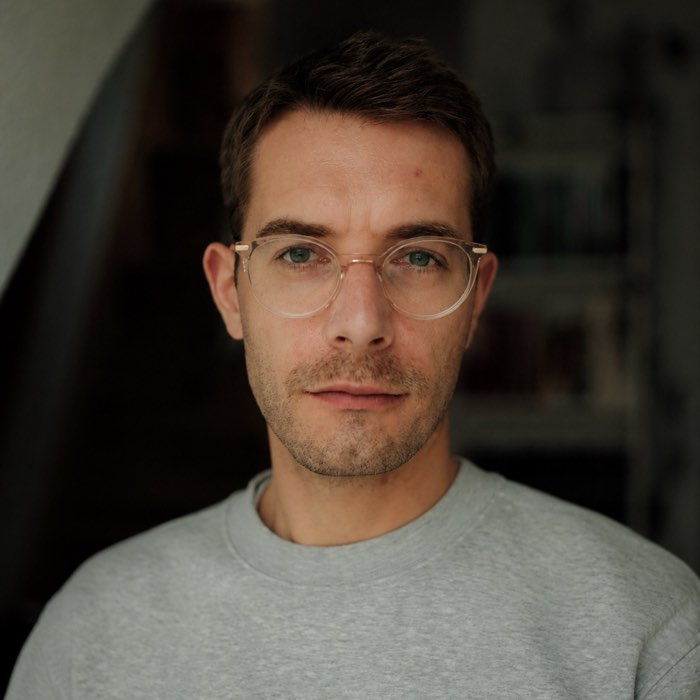
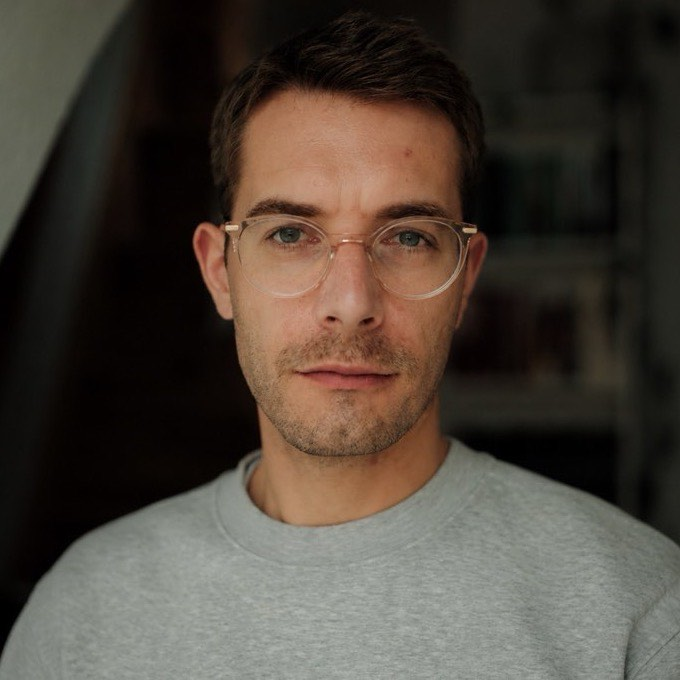
Team-Portraets auf eine gemeinsame Augenlinie geschnitten
Beim Wechsel von einem Portraet zum naechsten sprang der Blick auf und
ab. Gemessen lagen die Augen zwischen 22 und 37 Prozent der Kachelhoehe,
bei 304px Anzeige also rund 45px auseinander.

Jetzt liegen alle vier auf 35 Prozent.

Der Wert ist nicht gewaehlt, sondern die untere Grenze. Er ergibt sich
aus Joscha: zwischen Haaransatz und Augen liegen bei ihm 220px, ueber dem
Haaransatz nur 38. Tiefer angesetzt schneidet ihm den Kopf ab — was ein
erster Anlauf mit 26 Prozent auch getan hat. Hoeher angesetzt macht die
beiden sitzenden Aufnahmen unnoetig eng.

  Datei                  Kachel   Luft ueber dem Haaransatz
  philipp-maxhofer.jpg   700      81 px
  joscha-ortmeier.jpg    680      18 px
  tom-beckers.jpg        440      42 px
  cem-schuch.jpg         437      82 px

Die Kacheln sind verschieden gross, weil Cem und Tom auf ihren Aufnahmen
weit im Raum sitzen und ueber den Augen wenig Rand haben: Um sie auf
dieselbe Augenhoehe zu bringen, muss enger beschnitten werden.
Dargestellt werden alle mit 304px, also mindestens 1,4-fach.

Gemessen wurde nicht geschaetzt: Augen- und Haaransatzhoehen ueber
schmale Streifen aus jeder Datei bestimmt, danach der gemeinsame Wert
ausgerechnet und die fertigen Schnitte noch einmal mit Streifen bei
35 Prozent gegengeprueft.

Regel steht in docs/bildmaterial.md und im Kommentar ueber dem
team-Array: Wer ein Portraet tauscht, muss den Schnitt mitliefern.

diff --git a/docs/bildmaterial.md b/docs/bildmaterial.md
@@ -194,6 +194,36 @@ im Stapel trägt am meisten, das oberste nichts.
 Kamera, die Datei ist mit 570 × 760 als einzige unter 1000px breit, und
 inhaltlich zeigt sie dasselbe wie `bts-07` und `bts-09` — nur ohne Gesichter.
 
+### Die Team-Porträts
+
+Alle vier Quadrate sind so geschnitten, dass **die Augen auf 35 Prozent der
+Höhe** liegen. Vorher lagen sie zwischen 22 und 37 Prozent — beim Blick von
+einem Porträt zum nächsten sprang der Blick um rund 45px auf und ab.
+
+Die 35 Prozent sind die untere Grenze, nicht ein gewählter Wert. Sie ergeben
+sich aus Joscha: zwischen Haaransatz und Augen liegen bei ihm 220px, über dem
+Haaransatz nur 38. Tiefer angesetzt hätte ihm den Kopf abgeschnitten, höher
+die beiden sitzenden Aufnahmen unnötig eng gemacht.
+
+| Datei | Kachel | Augen | über dem Haaransatz |
+|---|---|---|---|
+| `philipp-maxhofer.jpg` | 700 × 700 | 35 % | 81 px |
+| `joscha-ortmeier.jpg` | 680 × 680 | 35 % | 18 px |
+| `tom-beckers.jpg` | 440 × 440 | 35 % | 42 px |
+| `cem-schuch.jpg` | 437 × 437 | 35 % | 82 px |
+
+Die Kacheln sind verschieden groß, weil Cem und Tom auf ihren Aufnahmen weit
+im Raum sitzen und über den Augen wenig Rand haben: Um sie auf dieselbe
+Augenhöhe zu bringen, muss enger beschnitten werden. Dargestellt werden alle
+mit 304px, also mindestens 1,4-fach.
+
+**Beim Austauschen den Schnitt mitliefern**: quadratisch, Augen auf 35 Prozent
+der Höhe, über dem Haaransatz Luft. Ohne das springt die Reihe wieder.
+
+Von den Originalen liegen nur `Joscha_Team.JPG` und `Tom_Beckers.jpg` unter
+`quellbilder/team/`. Für Philipp und Cem existiert nur die Webfassung — ein
+weiterer Beschnitt geht dort auf Kosten der Auflösung.
+
 ### Video-Standbilder
 
 Vier Projektseiten binden Vimeo-Videos ein und haben dafür je einen
